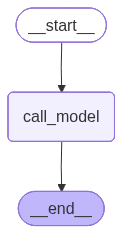
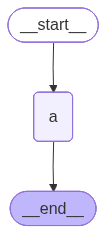
Fixed

diff --git a/chatbot.py b/chatbot.py
@@ -15,38 +15,33 @@ from prompt import SYSTEM_PROMPT
 load_dotenv()
 
 folder = os.path.dirname(__file__)
-default_csv = os.path.join(folder, "budget.csv")
+budget_file = None
 
 print("Welcome to your Budget Financial Planner!")
-print("I'll help you analyze spending from your budget CSV.")
+print("Select a CSV file to analyze spending, or cancel to continue without one.")
 print()
-print("Please select your budget CSV file...")
 
 root = tk.Tk()
 root.withdraw()
 chosen = filedialog.askopenfilename(
     title="Select budget CSV",
-    filetypes=[("CSV files", "*.csv"), ("All files", "*.*")],
+    filetypes=[("CSV files", "*.csv")],
     initialdir=folder,
-    initialfile="budget.csv",
 )
 root.destroy()
 
-if chosen:
+if chosen and os.path.isfile(chosen):
     budget_file = chosen
 else:
-    print("No file selected. Using default:", default_csv)
-    budget_file = default_csv
-
-print("Using budget file:", budget_file)
+    print("No CSV loaded")
 print()
 
 
 @tool
 def read_budget_csv():
     """Read the budget CSV file with expenses."""
-    if not os.path.isfile(budget_file):
-        return "Error: file not found"
+    if not budget_file or not os.path.isfile(budget_file):
+        return "No budget CSV is loaded."
     with open(budget_file) as f:
         return f.read()
 
@@ -65,12 +60,19 @@ def call_model(state):
 builder = StateGraph(MessagesState)
 builder.add_node("call_model", call_model)
 builder.add_node("tools", ToolNode(tools))
+
 builder.add_edge(START, "call_model")
 builder.add_conditional_edges("call_model", tools_condition)
 builder.add_edge("tools", "call_model")
 
 memory = InMemorySaver()
 graph = builder.compile(checkpointer=memory)
+
+graph_png = os.path.join(os.getcwd(), "graph.png")
+with open(graph_png, "wb") as f:
+    f.write(graph.get_graph(xray=True).draw_mermaid_png())
+print(f"Graph saved to {graph_png}")
+print()
 
 print("Budget Financial Planner")
 print("Type quit to exit")